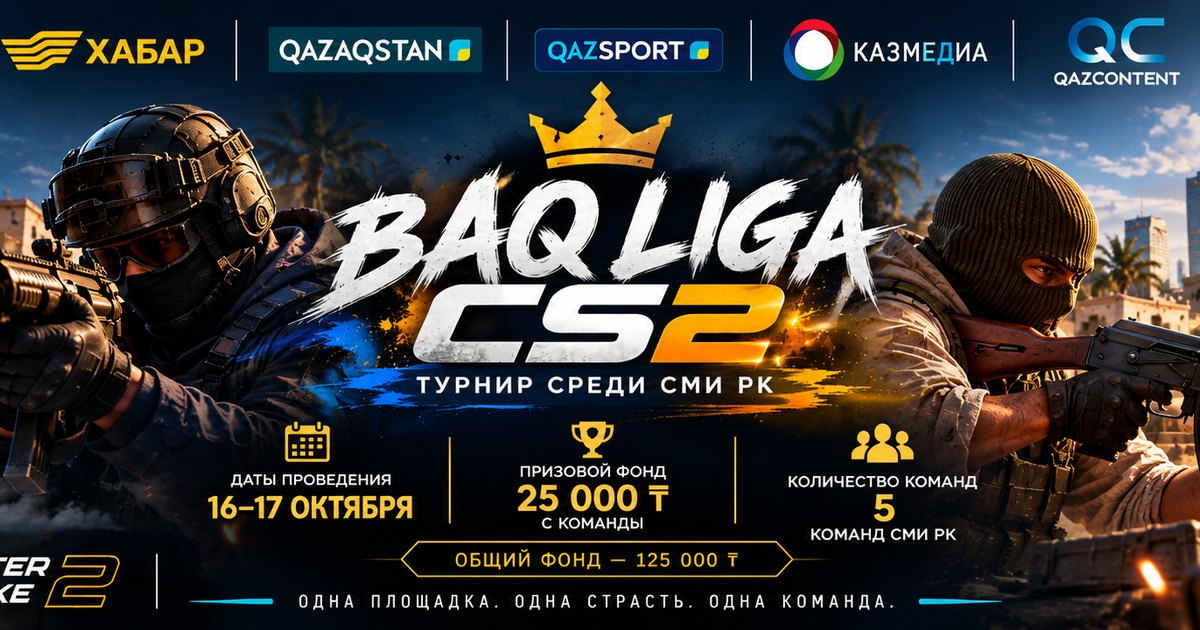
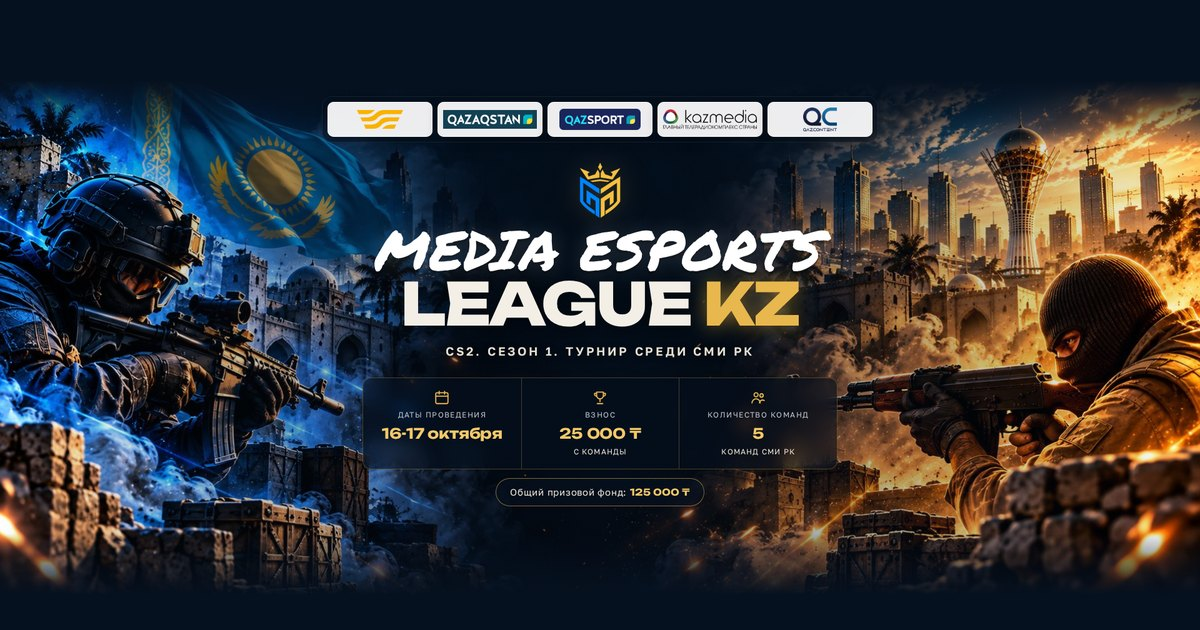
Add files via upload

diff --git a/admin.html b/admin.html
@@ -7,7 +7,7 @@
 <meta name="robots" content="noindex, nofollow">
 <meta name="theme-color" content="#12161b">
 <script>(function(){try{var t=localStorage.getItem('baq-theme');if(t==='light'||t==='dark')document.documentElement.setAttribute('data-theme',t);}catch(e){}})();</script>
-<title>Админка BAQ LIGA CS2</title>
+<title>Админка Media Esports League KZ</title>
 <link rel="icon" href="favicon.ico" sizes="any">
 <link rel="icon" href="favicon-48.png" type="image/png">
 <link rel="apple-touch-icon" href="apple-touch-icon.png">
@@ -575,7 +575,7 @@ html { scroll-padding-top: 76px; }
 body:not(.admin) { background: transparent; }
 html { background: #06111f; }
 .page-bg { position: fixed; inset: 0; z-index: -1; background: #06111f; overflow: hidden; pointer-events: none; }
-.page-bg::before { content: ""; position: absolute; left: 0; right: 0; top: 50%; height: max(calc(100vw * 0.4), 70vh); transform: translateY(-50%); background: url(bg.jpg) center / cover no-repeat;
+.page-bg::before { content: ""; position: absolute; left: 0; right: 0; top: 50%; height: max(calc(100vw * 0.4), 70vh); transform: translateY(-50%); background: var(--bg-d, url(bg.jpg)) center / cover no-repeat;
   -webkit-mask-image: linear-gradient(transparent, #000 12%, #000 88%, transparent); mask-image: linear-gradient(transparent, #000 12%, #000 88%, transparent); }
 .page-bg::after { content: ""; position: absolute; inset: 0; background: linear-gradient(90deg, rgba(6,17,31,0) 0%, rgba(6,17,31,.25) 22%, rgba(6,17,31,.5) 50%, rgba(6,17,31,.25) 78%, rgba(6,17,31,0) 100%); }
 body:not(.admin) .wrap { max-width: 980px; }
@@ -758,6 +758,59 @@ body:not(.admin) .teams { grid-template-columns: repeat(auto-fill, minmax(280px,
   .pl-row .pl-name { grid-column: 1 / -1; }
 }
 
+/* ---------- Новое название, мобильный первый экран без постера ---------- */
+.brand-crown { width: 26px; height: auto; fill: #e8b84e; filter: drop-shadow(0 0 6px rgba(232,184,78,.35)); }
+.h-baq { font-size: clamp(40px, 6.6vw, 100px); letter-spacing: .005em; }
+.h-cs { font-size: clamp(42px, 7vw, 106px); margin-top: .02em; }
+.h-sub { letter-spacing: .2em; }
+@media (max-width: 760px) {
+  .page-bg::before { background-image: var(--bg-m, var(--bg-d, url(bg.jpg))); background-position: 50% 50%; opacity: .75; }
+  .hero4 { display: flex; min-height: calc(100svh - 55px); color: #ece6d8; }
+  .hero4-in { padding-top: 22px; padding-bottom: 28px; }
+  .hero4-in > .crown, .hero4-in > .h-sub, .hero4-in > .h-info, .hero4-in > .h-total, .hero4-in > .orgs { display: flex; }
+  .hero4-in > .crown { display: block; width: 44px; }
+  .hero4-in > .h-title { position: static; width: auto; height: auto; overflow: visible; clip: auto; }
+  .hero4-in > .h-sub { display: block; font-size: 12px; letter-spacing: .14em; margin: 12px 0 18px; }
+  .h-baq { font-size: clamp(34px, 11vw, 52px); }
+  .h-cs { font-size: clamp(36px, 11.5vw, 56px); }
+  .orgs { margin-bottom: 20px; gap: 6px; padding: 6px; }
+  .orgs li { width: calc(33.33% - 4px); height: 40px; padding: 0 6px; }
+  .orgs img { height: 22px; max-width: 100%; }
+  .orgs li:nth-child(1) img { height: 20px; } .orgs li:nth-child(5) img { height: 26px; }
+  .h-info { grid-template-columns: 1fr; width: 100%; }
+  .hi { flex-direction: row; flex-wrap: wrap; justify-content: space-between; padding: 12px 16px; gap: 4px 10px; text-align: left; }
+  .hi + .hi { border-left: 0; border-top: 1px solid rgba(232,184,78,.3); }
+  .hi svg { display: none; }
+  .hi span { flex: 1 0 auto; }
+  .hi small { width: 100%; text-align: right; }
+  .h-total { font-size: 14px; padding: 9px 16px; }
+  .hero4 .livebar { color: #ece6d8; margin-top: 16px; }
+  .hero4 .btn.ghost { color: #ece6d8; background: rgba(6,17,31,.6); }
+}
+body:not(.admin) .site-top-in { max-width: 1240px; }
+.brand-logo, .theme-btn, .lnav a { white-space: nowrap; }
+.h-baq, .h-cs { text-transform: uppercase; }
+.h-baq { font-size: clamp(36px, 5.6vw, 88px); }
+.h-cs { font-size: clamp(38px, 6.2vw, 94px); }
+@media (max-width: 1100px) and (min-width: 761px) { .lnav a { padding: 8px 8px; font-size: 13px; } }
+@media (max-width: 760px) { .h-baq { font-size: clamp(30px, 9.4vw, 46px); } .h-cs { font-size: clamp(32px, 10vw, 50px); } }
+@media (max-width: 760px) {
+  .hero4-in > .h-info { display: grid; grid-template-columns: 1fr; }
+  .hero4-in > .h-total { display: block; }
+  .hi b { font-size: 17px; }
+}
+
+/* ---------- Новые фоны и эмблема ---------- */
+.page-bg::before { height: max(calc(100vw * 0.4286), 70vh); }
+.brand-logo img { width: 34px; height: 34px; border-radius: 0; }
+.hero-mark { width: 92px; height: auto; filter: drop-shadow(0 0 22px rgba(232,184,78,.28)); margin-bottom: 4px; }
+.hero4-in > .hero-mark { animation-delay: 0s; }
+@media (max-width: 760px) {
+  .page-bg::before { background-image: var(--bg-m, url(bg-m.jpg)); background-position: 50% 50%; opacity: 1; height: 100%; top: 0; transform: none; }
+  .hero-mark { width: 64px; }
+  .brand-logo img { width: 30px; height: 30px; }
+}
+
 </style>
 </head>
 <body class="admin">
@@ -777,7 +830,7 @@ body:not(.admin) .teams { grid-template-columns: repeat(auto-fill, minmax(280px,
   <div id="loginView" hidden>
     <form class="card login" id="loginForm" novalidate>
       <h1>Вход в админку</h1>
-      <p style="color:var(--muted);margin:0 0 20px;font-size:14px">BAQ LIGA CS2</p>
+      <p style="color:var(--muted);margin:0 0 20px;font-size:14px">Media Esports League KZ</p>
       <div class="field"><label class="f" for="email">Email</label><input type="email" id="email" autocomplete="username" value="e.dossetov@gmail.com"></div>
       <div class="field"><label class="f" for="pass">Пароль</label><input type="password" id="pass" autocomplete="current-password"></div>
       <button class="btn" type="submit" style="width:100%;justify-content:center">Войти</button>
@@ -789,7 +842,7 @@ body:not(.admin) .teams { grid-template-columns: repeat(auto-fill, minmax(280px,
   <div id="panel" hidden>
     <h1>Админка</h1>
     <nav class="anav" aria-label="Разделы">
-      <a href="#s-matches">Матчи <b id="navLive"></b></a><a href="#s-media">Постеры</a><a href="#s-draw">Жеребьевка</a><a href="#s-table">Таблица</a><a href="#s-teams">Команды и взносы</a><a href="#s-settings">Настройки</a><a href="#s-reset">Сброс</a>
+      <a href="#s-matches">Матчи <b id="navLive"></b></a><a href="#s-media">Фоны</a><a href="#s-draw">Жеребьевка</a><a href="#s-table">Таблица</a><a href="#s-teams">Команды и взносы</a><a href="#s-settings">Настройки</a><a href="#s-reset">Сброс</a>
     </nav>
     <div class="banner" id="demo" hidden>Демо-режим: данные сохраняются только в этом браузере. Откройте страницу зрителей в соседней вкладке, чтобы проверить обновление в реальном времени.</div>
 
@@ -800,11 +853,11 @@ body:not(.admin) .teams { grid-template-columns: repeat(auto-fill, minmax(280px,
     </section>
 
     <section class="block" id="s-media">
-      <h2>Постеры первого экрана</h2>
-      <p class="lead">Горизонтальный постер показывается на компьютере, вертикальный на телефоне. Выберите файл и нажмите «Загрузить»: картинка сожмется и сразу заменится у всех зрителей. «Вернуть стандартный» показывает постер из файлов сайта.</p>
+      <h2>Фоны страницы</h2>
+      <p class="lead">Фон без текста, на котором стоит весь сайт: горизонтальный для компьютера (лучше 21:9 или 16:9, от 2560 пикселей в ширину), вертикальный для телефона (9:16). Выберите файл и нажмите «Загрузить»: фон сменится у всех зрителей. «Вернуть стандартный» показывает нынешний фон с CT и T.</p>
       <div class="media-grid">
-        <div class="card media-card"><label class="f">Компьютер, горизонтальный</label><img id="mPrevD" src="poster-desktop.jpg" alt="Текущий горизонтальный постер"><p class="note" id="mInfoD"></p><input type="file" id="mFileD" accept="image/png,image/jpeg,image/webp"><div class="row-actions"><button class="btn" type="button" data-up="desktop">Загрузить</button><button class="btn ghost" type="button" data-reset="desktop">Вернуть стандартный</button></div></div>
-        <div class="card media-card"><label class="f">Телефон, вертикальный</label><img id="mPrevM" src="poster-mobile.jpg" alt="Текущий вертикальный постер"><p class="note" id="mInfoM"></p><input type="file" id="mFileM" accept="image/png,image/jpeg,image/webp"><div class="row-actions"><button class="btn" type="button" data-up="mobile">Загрузить</button><button class="btn ghost" type="button" data-reset="mobile">Вернуть стандартный</button></div></div>
+        <div class="card media-card"><label class="f">Компьютер, горизонтальный</label><img id="mPrevD" src="bg.jpg" alt="Текущий фон для компьютера"><p class="note" id="mInfoD"></p><input type="file" id="mFileD" accept="image/png,image/jpeg,image/webp"><div class="row-actions"><button class="btn" type="button" data-up="desktop">Загрузить</button><button class="btn ghost" type="button" data-reset="desktop">Вернуть стандартный</button></div></div>
+        <div class="card media-card"><label class="f">Телефон, вертикальный</label><img id="mPrevM" src="bg-m.jpg" alt="Текущий фон для телефона"><p class="note" id="mInfoM"></p><input type="file" id="mFileM" accept="image/png,image/jpeg,image/webp"><div class="row-actions"><button class="btn" type="button" data-up="mobile">Загрузить</button><button class="btn ghost" type="button" data-reset="mobile">Вернуть стандартный</button></div></div>
       </div>
     </section>
 
@@ -872,7 +925,7 @@ body:not(.admin) .teams { grid-template-columns: repeat(auto-fill, minmax(280px,
       </div>
     </section>
 
-    <footer class="foot"><div class="foot-row"><span>© 2026 Ернар Досетов</span><span id="who"></span></div></footer>
+    <footer class="foot"><div class="foot-row"><span>© 2026 Ернар Досетов. Media Esports League KZ</span><span id="who"></span></div></footer>
   </div>
 </div>
 <div class="toast" id="toast" role="status" aria-live="polite"></div>
@@ -911,8 +964,8 @@ body:not(.admin) .teams { grid-template-columns: repeat(auto-fill, minmax(280px,
 
   const DEFAULT_STATE = {
     meta: {
-      title: "BAQ LIGA CS2",
-      subtitle: "Турнир по Counter-Strike 2 среди СМИ РК",
+      title: "Media Esports League KZ",
+      subtitle: "CS2. Сезон 1. Турнир среди СМИ РК",
       info: "",
       dates: "16-17 октября",
       place: "",
@@ -1462,7 +1515,7 @@ body:not(.admin) .teams { grid-template-columns: repeat(auto-fill, minmax(280px,
   });
 
   /* ---------- Постеры ---------- */
-  const MEDIA = { desktop: { max: 2400, file: "mFileD", prev: "mPrevD", info: "mInfoD", def: "poster-desktop.jpg" }, mobile: { max: 1280, file: "mFileM", prev: "mPrevM", info: "mInfoM", def: "poster-mobile.jpg" } };
+  const MEDIA = { desktop: { key: "bg_desktop", max: 3200, file: "mFileD", prev: "mPrevD", info: "mInfoD", def: "bg.jpg" }, mobile: { key: "bg_mobile", max: 1440, file: "mFileM", prev: "mPrevM", info: "mInfoM", def: "bg-m.jpg" } };
   function loadImage(file) {
     return new Promise((ok, fail) => {
       const url = URL.createObjectURL(file), img = new Image();
@@ -1483,7 +1536,7 @@ body:not(.admin) .teams { grid-template-columns: repeat(auto-fill, minmax(280px,
   function showMedia(key, v) {
     const m = MEDIA[key];
     $(m.prev).src = v && v.data ? v.data : m.def;
-    $(m.info).textContent = v && v.data ? `Загружен${v.at ? " " + B.fmtStamp(v.at) : ""}, ${v.w}×${v.h}, ${Math.round(v.data.length * 0.75 / 1024)} КБ` : "Сейчас показывается стандартный постер из файлов сайта";
+    $(m.info).textContent = v && v.data ? `Загружен${v.at ? " " + B.fmtStamp(v.at) : ""}, ${v.w}×${v.h}, ${Math.round(v.data.length * 0.75 / 1024)} КБ` : "Сейчас стоит стандартный фон из файлов сайта";
   }
   document.querySelector("#s-media").addEventListener("click", async e => {
     const up = e.target.dataset.up, rs = e.target.dataset.reset;
@@ -1494,14 +1547,14 @@ body:not(.admin) .teams { grid-template-columns: repeat(auto-fill, minmax(280px,
       e.target.disabled = true; e.target.textContent = "Загружаем...";
       try {
         const r = await compress(f, MEDIA[up].max);
-        await store.saveMedia(up, { ...r, at: store.serverTime(), by: me });
-        toast("Постер обновлен у всех зрителей"); $(MEDIA[up].file).value = "";
+        await store.saveMedia(MEDIA[up].key, { ...r, at: store.serverTime(), by: me });
+        toast("Фон обновлен у всех зрителей"); $(MEDIA[up].file).value = "";
       } catch (err) { console.error(err); toast(errText(err), true); }
       e.target.disabled = false; e.target.textContent = "Загрузить";
     }
     if (rs) {
-      if (!confirm("Вернуть стандартный постер?")) return;
-      try { await store.saveMedia(rs, null); toast("Возвращен стандартный постер"); } catch (err) { toast(errText(err), true); }
+      if (!confirm("Вернуть стандартный фон?")) return;
+      try { await store.saveMedia(MEDIA[rs].key, null); toast("Возвращен стандартный фон"); } catch (err) { toast(errText(err), true); }
     }
   });
 
@@ -1669,7 +1722,7 @@ body:not(.admin) .teams { grid-template-columns: repeat(auto-fill, minmax(280px,
     const stream = $("streamIn").value.trim();
     if (stream && !/^https?:\/\//i.test(stream)) { toast("Ссылка на трансляцию должна начинаться с https://", true); return; }
     update("meta", {
-      title: $("titleIn").value.trim() || "BAQ LIGA CS2", subtitle: $("subtitleIn").value.trim(),
+      title: $("titleIn").value.trim() || "Media Esports League KZ", subtitle: $("subtitleIn").value.trim(),
       dates: $("datesIn").value.trim(), place: $("placeIn").value.trim(),
       partnersTitle: $("partnersTitleIn").value.trim(), partners: $("partnersIn").value.trim(), stream, mapPool: $("poolIn").value.trim(),
       fee: Math.max(0, Math.round(+$("feeIn").value || 0)), prizes, rules: $("rulesIn").value.trim(),
@@ -1729,7 +1782,7 @@ body:not(.admin) .teams { grid-template-columns: repeat(auto-fill, minmax(280px,
       $("loginView").hidden = !!user;
       $("panel").hidden = !user;
       $("logout").hidden = !user || store.mode === "demo";
-      if (user) { me = user.email || ""; $("who").textContent = user.email || ""; if (!subscribed) { subscribed = true; store.subscribe(render); store.watchMedia("desktop", v => showMedia("desktop", v)); store.watchMedia("mobile", v => showMedia("mobile", v)); B.TEAM_IDS.forEach(t => store.watchMedia("logo_" + t, v => { B.logos[t] = v && v.data ? v.data : null; if (built) showLogo(t); if (comp) renderMatches(); })); } }
+      if (user) { me = user.email || ""; $("who").textContent = user.email || ""; if (!subscribed) { subscribed = true; store.subscribe(render); store.watchMedia("bg_desktop", v => showMedia("desktop", v)); store.watchMedia("bg_mobile", v => showMedia("mobile", v)); B.TEAM_IDS.forEach(t => store.watchMedia("logo_" + t, v => { B.logos[t] = v && v.data ? v.data : null; if (built) showLogo(t); if (comp) renderMatches(); })); } }
     });
   }
   start();

diff --git a/index.html b/index.html
@@ -4,18 +4,18 @@
 <meta charset="utf-8">
 <meta name="viewport" content="width=device-width, initial-scale=1, viewport-fit=cover">
 <meta name="author" content="Ернар Досетов">
-<meta name="description" content="BAQ LIGA CS2: турнирная сетка, счет матчей, расписание и составы команд в реальном времени">
+<meta name="description" content="Media Esports League KZ: киберспортивные турниры среди СМИ РК. Сетка, счет матчей, расписание и составы команд в реальном времени">
 <meta name="theme-color" content="#12161b">
 <script>(function(){try{var t=localStorage.getItem('baq-theme');if(t==='light'||t==='dark')document.documentElement.setAttribute('data-theme',t);}catch(e){}})();</script>
 <meta property="og:type" content="website">
-<meta property="og:title" content="BAQ LIGA CS2">
-<meta property="og:description" content="Турнир по Counter-Strike 2 среди СМИ РК, 16-17 октября. Сетка и счет в реальном времени">
+<meta property="og:title" content="Media Esports League KZ">
+<meta property="og:description" content="CS2. Сезон 1. Турнир среди СМИ РК, 16-17 октября. Сетка и счет в реальном времени">
 <meta property="og:url" content="https://vanr45.github.io/baq-liga-cs2/">
 <meta property="og:image" content="https://vanr45.github.io/baq-liga-cs2/og.jpg">
 <meta property="og:image:width" content="1200">
 <meta property="og:image:height" content="630">
 <meta name="twitter:card" content="summary_large_image">
-<title>BAQ LIGA CS2</title>
+<title>Media Esports League KZ</title>
 <link rel="icon" href="favicon.ico" sizes="any">
 <link rel="icon" href="favicon-48.png" type="image/png">
 <link rel="apple-touch-icon" href="apple-touch-icon.png">
@@ -583,7 +583,7 @@ html { scroll-padding-top: 76px; }
 body:not(.admin) { background: transparent; }
 html { background: #06111f; }
 .page-bg { position: fixed; inset: 0; z-index: -1; background: #06111f; overflow: hidden; pointer-events: none; }
-.page-bg::before { content: ""; position: absolute; left: 0; right: 0; top: 50%; height: max(calc(100vw * 0.4), 70vh); transform: translateY(-50%); background: url(bg.jpg) center / cover no-repeat;
+.page-bg::before { content: ""; position: absolute; left: 0; right: 0; top: 50%; height: max(calc(100vw * 0.4), 70vh); transform: translateY(-50%); background: var(--bg-d, url(bg.jpg)) center / cover no-repeat;
   -webkit-mask-image: linear-gradient(transparent, #000 12%, #000 88%, transparent); mask-image: linear-gradient(transparent, #000 12%, #000 88%, transparent); }
 .page-bg::after { content: ""; position: absolute; inset: 0; background: linear-gradient(90deg, rgba(6,17,31,0) 0%, rgba(6,17,31,.25) 22%, rgba(6,17,31,.5) 50%, rgba(6,17,31,.25) 78%, rgba(6,17,31,0) 100%); }
 body:not(.admin) .wrap { max-width: 980px; }
@@ -766,13 +766,66 @@ body:not(.admin) .teams { grid-template-columns: repeat(auto-fill, minmax(280px,
   .pl-row .pl-name { grid-column: 1 / -1; }
 }
 
+/* ---------- Новое название, мобильный первый экран без постера ---------- */
+.brand-crown { width: 26px; height: auto; fill: #e8b84e; filter: drop-shadow(0 0 6px rgba(232,184,78,.35)); }
+.h-baq { font-size: clamp(40px, 6.6vw, 100px); letter-spacing: .005em; }
+.h-cs { font-size: clamp(42px, 7vw, 106px); margin-top: .02em; }
+.h-sub { letter-spacing: .2em; }
+@media (max-width: 760px) {
+  .page-bg::before { background-image: var(--bg-m, var(--bg-d, url(bg.jpg))); background-position: 50% 50%; opacity: .75; }
+  .hero4 { display: flex; min-height: calc(100svh - 55px); color: #ece6d8; }
+  .hero4-in { padding-top: 22px; padding-bottom: 28px; }
+  .hero4-in > .crown, .hero4-in > .h-sub, .hero4-in > .h-info, .hero4-in > .h-total, .hero4-in > .orgs { display: flex; }
+  .hero4-in > .crown { display: block; width: 44px; }
+  .hero4-in > .h-title { position: static; width: auto; height: auto; overflow: visible; clip: auto; }
+  .hero4-in > .h-sub { display: block; font-size: 12px; letter-spacing: .14em; margin: 12px 0 18px; }
+  .h-baq { font-size: clamp(34px, 11vw, 52px); }
+  .h-cs { font-size: clamp(36px, 11.5vw, 56px); }
+  .orgs { margin-bottom: 20px; gap: 6px; padding: 6px; }
+  .orgs li { width: calc(33.33% - 4px); height: 40px; padding: 0 6px; }
+  .orgs img { height: 22px; max-width: 100%; }
+  .orgs li:nth-child(1) img { height: 20px; } .orgs li:nth-child(5) img { height: 26px; }
+  .h-info { grid-template-columns: 1fr; width: 100%; }
+  .hi { flex-direction: row; flex-wrap: wrap; justify-content: space-between; padding: 12px 16px; gap: 4px 10px; text-align: left; }
+  .hi + .hi { border-left: 0; border-top: 1px solid rgba(232,184,78,.3); }
+  .hi svg { display: none; }
+  .hi span { flex: 1 0 auto; }
+  .hi small { width: 100%; text-align: right; }
+  .h-total { font-size: 14px; padding: 9px 16px; }
+  .hero4 .livebar { color: #ece6d8; margin-top: 16px; }
+  .hero4 .btn.ghost { color: #ece6d8; background: rgba(6,17,31,.6); }
+}
+body:not(.admin) .site-top-in { max-width: 1240px; }
+.brand-logo, .theme-btn, .lnav a { white-space: nowrap; }
+.h-baq, .h-cs { text-transform: uppercase; }
+.h-baq { font-size: clamp(36px, 5.6vw, 88px); }
+.h-cs { font-size: clamp(38px, 6.2vw, 94px); }
+@media (max-width: 1100px) and (min-width: 761px) { .lnav a { padding: 8px 8px; font-size: 13px; } }
+@media (max-width: 760px) { .h-baq { font-size: clamp(30px, 9.4vw, 46px); } .h-cs { font-size: clamp(32px, 10vw, 50px); } }
+@media (max-width: 760px) {
+  .hero4-in > .h-info { display: grid; grid-template-columns: 1fr; }
+  .hero4-in > .h-total { display: block; }
+  .hi b { font-size: 17px; }
+}
+
+/* ---------- Новые фоны и эмблема ---------- */
+.page-bg::before { height: max(calc(100vw * 0.4286), 70vh); }
+.brand-logo img { width: 34px; height: 34px; border-radius: 0; }
+.hero-mark { width: 92px; height: auto; filter: drop-shadow(0 0 22px rgba(232,184,78,.28)); margin-bottom: 4px; }
+.hero4-in > .hero-mark { animation-delay: 0s; }
+@media (max-width: 760px) {
+  .page-bg::before { background-image: var(--bg-m, url(bg-m.jpg)); background-position: 50% 50%; opacity: 1; height: 100%; top: 0; transform: none; }
+  .hero-mark { width: 64px; }
+  .brand-logo img { width: 30px; height: 30px; }
+}
+
 </style>
 </head>
 <body>
 <a class="skip" href="#live">К счету матчей</a>
 <header class="site-top">
   <div class="wrap site-top-in">
-    <a class="brand-mini brand-logo" href="#top"><img src="icon-192.png" width="32" height="32" alt="">BAQ LIGA</a>
+    <a class="brand-mini brand-logo" href="#top"><img src="logo-mark.png" width="34" height="34" alt="">Media Esports KZ</a>
     <nav class="lnav" aria-label="Разделы">
       <a href="#live">Эфир</a><a href="#group">Группа</a><a href="#playoff">Плей-офф</a><a href="#schedule">Расписание</a><a href="#teams">Команды</a><a href="#rules">Регламент</a>
     </nav>
@@ -782,7 +835,6 @@ body:not(.admin) .teams { grid-template-columns: repeat(auto-fill, minmax(280px,
 
 <div class="page-bg" aria-hidden="true"></div>
 <section class="hero4" id="top">
-  <figure class="hero-m"><img id="heroImgM" src="poster-mobile.jpg" width="1024" height="1536" alt="Афиша BAQ LIGA CS2: турнир среди СМИ РК, 16-17 октября, 5 команд, общий призовой фонд 125 000 тенге" fetchpriority="high" decoding="async"></figure>
   <div class="wrap hero4-in">
     <ul class="orgs" aria-label="СМИ турнира">
       <li><img src="logos/khabar.png" width="234" height="96" alt="Хабар"></li>
@@ -791,9 +843,9 @@ body:not(.admin) .teams { grid-template-columns: repeat(auto-fill, minmax(280px,
       <li><img src="logos/kazmedia.png" width="441" height="96" alt="Kazmedia"></li>
       <li><img src="logos/qazcontent.png" width="138" height="96" alt="Qazcontent"></li>
     </ul>
-    <svg class="crown" viewBox="0 0 120 80" aria-hidden="true"><path d="M8 70 L14 22 L38 44 L60 8 L82 44 L106 22 L112 70 Z" /><rect x="8" y="70" width="104" height="8" rx="2"/></svg>
-    <h1 class="h-title" id="title"><span class="h-baq">BAQ LIGA</span><span class="h-cs">CS<b>2</b></span><span class="sr-only">: турнир по Counter-Strike 2 среди СМИ РК</span></h1>
-    <p class="h-sub">Турнир среди СМИ РК</p>
+    <img class="hero-mark" src="logo-mark.png" width="256" height="256" alt="">
+    <h1 class="h-title" id="title"><span class="h-baq">Media Esports</span><span class="h-cs">League <b>KZ</b></span></h1>
+    <p class="h-sub" id="hSub">CS2. Сезон 1. Турнир среди СМИ РК</p>
     <div class="h-info">
       <div class="hi"><svg viewBox="0 0 24 24" aria-hidden="true"><rect x="3" y="5" width="18" height="16" rx="2"/><path d="M3 10h18M8 3v4M16 3v4"/></svg><span>Даты проведения</span><b id="hDates">16-17 октября</b><small id="hPlace"></small></div>
       <div class="hi"><svg viewBox="0 0 24 24" aria-hidden="true"><path d="M7 4h10v5a5 5 0 0 1-10 0z"/><path d="M7 6H4a3 3 0 0 0 3 4M17 6h3a3 3 0 0 1-3 4M12 14v4M8 21h8"/></svg><span>Взнос</span><b id="hFee">25 000 ₸</b><small>с команды</small></div>
@@ -913,8 +965,8 @@ body:not(.admin) .teams { grid-template-columns: repeat(auto-fill, minmax(280px,
 
   const DEFAULT_STATE = {
     meta: {
-      title: "BAQ LIGA CS2",
-      subtitle: "Турнир по Counter-Strike 2 среди СМИ РК",
+      title: "Media Esports League KZ",
+      subtitle: "CS2. Сезон 1. Турнир среди СМИ РК",
       info: "",
       dates: "16-17 октября",
       place: "",
@@ -1361,7 +1413,7 @@ body:not(.admin) .teams { grid-template-columns: repeat(auto-fill, minmax(280px,
     }
     if (comp.champion) {
       const second = comp.res.P5.loser, third = comp.res.P4.loser;
-      el.innerHTML = `<div class="champion"><p>Чемпион ${esc(state.meta.title)}</p><strong>${nm(comp.champion)}</strong>
+      el.innerHTML = `<div class="champion"><p>Чемпион ${esc(state.meta.subtitle || state.meta.title)}</p><strong>${nm(comp.champion)}</strong>
         <div class="podium"><span><b>2 место</b>${nm(second)}</span><span><b>3 место</b>${nm(third)}</span></div></div>`;
     } else if (comp.live.length) el.innerHTML = comp.live.map(r => focusMatch(r)).join("");
     else if (comp.next) el.innerHTML = focusMatch(comp.next, "Следующий матч");
@@ -1450,7 +1502,8 @@ body:not(.admin) .teams { grid-template-columns: repeat(auto-fill, minmax(280px,
   }
 
   function renderHero() {
-    document.title = state.meta.title || "BAQ LIGA CS2";
+    document.title = state.meta.title || "Media Esports League KZ";
+    if (state.meta.subtitle) $("hSub").textContent = state.meta.subtitle;
     const pi = B.prizeInfo(state);
     $("hDates").textContent = state.meta.dates || "Уточняются";
     $("hPlace").textContent = state.meta.place || "";
@@ -1478,25 +1531,21 @@ body:not(.admin) .teams { grid-template-columns: repeat(auto-fill, minmax(280px,
     lb.innerHTML = html; lb.hidden = !html;
   }
 
-  /* ---------- Постеры из админки ---------- */
-  const media = { desktop: null, mobile: null }, watching = {};
-  let storeRef = null;
-  function applyMedia() {
-    const d = media.desktop, m = media.mobile;
-    const dSrc = d ? d.data : "poster-desktop.jpg", mSrc = m ? m.data : "poster-mobile.jpg";
-    const hm = $("heroImgM");
-    if (hm.getAttribute("src") !== mSrc) { hm.src = mSrc; if (m && m.w) { hm.width = m.w; hm.height = m.h; } }
-  }
-  function want(key) {
-    if (watching[key] || !storeRef || !storeRef.watchMedia) return;
-    watching[key] = true;
-    storeRef.watchMedia(key, v => { media[key] = v && v.data ? v : null; applyMedia(); });
-  }
+  /* ---------- Фоны из админки ---------- */
   const mq = matchMedia("(max-width: 760px)");
-  mq.addEventListener?.("change", () => { if (mq.matches) want("mobile"); });
+  const watching = {};
+  function want(key, store) {
+    if (watching[key]) return;
+    watching[key] = true;
+    store.watchMedia(key, val => {
+      const bg = document.querySelector(".page-bg");
+      const prop = key === "bg_mobile" ? "--bg-m" : "--bg-d";
+      if (val && val.data) bg.style.setProperty(prop, `url("${val.data}")`); else bg.style.removeProperty(prop);
+    });
+  }
   function startMedia(store) {
-    storeRef = store;
-    if (mq.matches) want("mobile");
+    want(mq.matches ? "bg_mobile" : "bg_desktop", store);
+    mq.addEventListener?.("change", () => want(mq.matches ? "bg_mobile" : "bg_desktop", store));
   }
 
   function render(s) {
